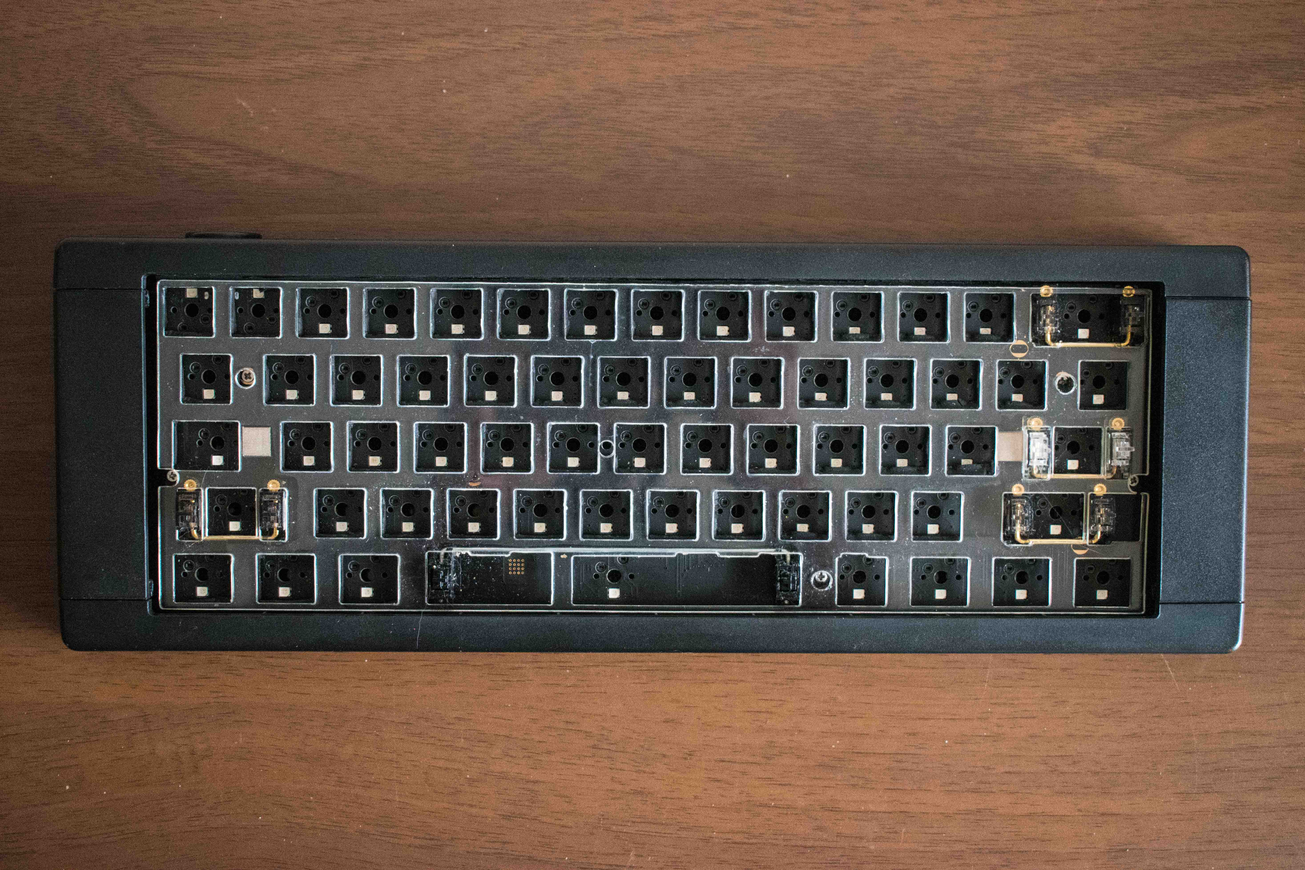
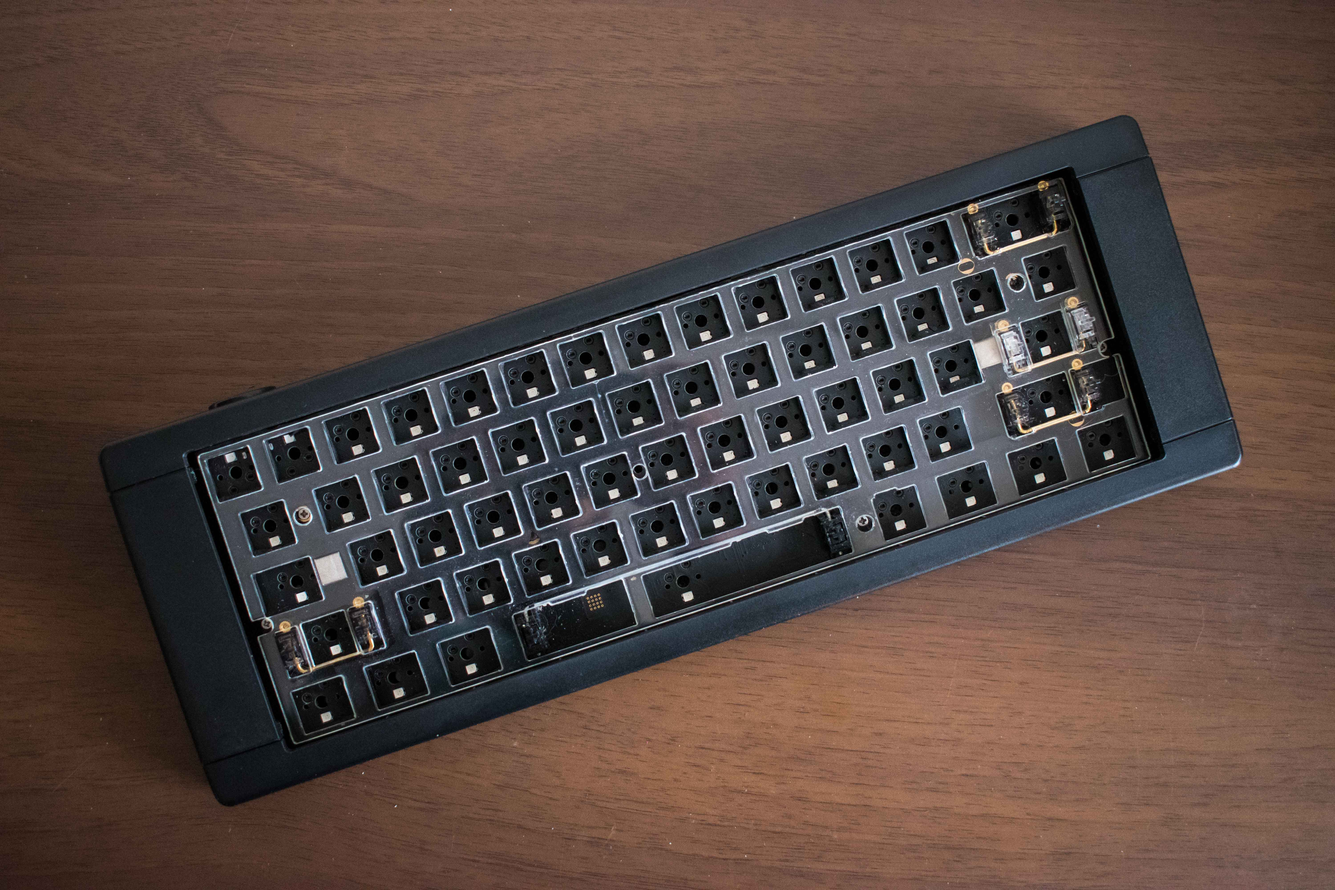
Updated sold items and better pics

diff --git a/index.html b/index.html
@@ -3,7 +3,7 @@
 "http://www.w3.org/TR/xhtml1/DTD/xhtml1-strict.dtd">
 <html xmlns="http://www.w3.org/1999/xhtml" lang="en" xml:lang="en">
 <head>
-<!-- 2022-10-11 Tue 21:16 -->
+<!-- 2022-10-12 Wed 17:05 -->
 <meta http-equiv="Content-Type" content="text/html;charset=utf-8" />
 <meta name="viewport" content="width=device-width, initial-scale=1" />
 <title>Market</title>
@@ -26,7 +26,6 @@
 <li><a href="#keycaps">Keycaps</a>
 <ul>
 <li><a href="#mt3-dev-tty">MT3 dev/tty</a></li>
-<li><a href="#mt3-3277">MT3 3277</a></li>
 </ul>
 </li>
 <li><a href="#keyboard-kits">Keyboard kits</a>
@@ -40,6 +39,7 @@
 <li><a href="#mt3-camillo"><del>MT3 Camillo</del> (sold)</a></li>
 <li><a href="#mt3-dasher"><del>MT3 Dasher</del> (sold)</a></li>
 <li><a href="#gmk-dmg-clones"><del>GMK DMG Clones</del> (sold)</a></li>
+<li><a href="#mt3-3277"><del>MT3 3277</del> (sold)</a></li>
 </ul>
 </li>
 </ul>
@@ -51,7 +51,7 @@
 <h2 id="timestamp">Timestamp</h2>
 <div class="outline-text-2" id="text-timestamp">
 
-<div id="orgc677a54" class="figure">
+<div id="org6bdbee7" class="figure">
 <p><img src="images/round01/timestamp.jpg" alt="timestamp.jpg" />
 </p>
 </div>
@@ -73,48 +73,14 @@ Shipped in plastic bag.
 </p>
 
 
-<div id="org2444e03" class="figure">
+<div id="org660733f" class="figure">
 <p><img src="images/round01/mt3_dev_tty_norbatouch.jpg" alt="mt3_dev_tty_norbatouch.jpg" />
 </p>
 </div>
 
 
-<div id="org83ec6ab" class="figure">
+<div id="orge8f69ec" class="figure">
 <p><img src="images/round01/mt3_dev_tty.jpg" alt="mt3_dev_tty.jpg" />
-</p>
-</div>
-</div>
-</div>
-
-<div id="outline-container-mt3-3277" class="outline-3">
-<h3 id="mt3-3277">MT3 3277</h3>
-<div class="outline-text-3" id="text-mt3-3277">
-<p>
-Mounted for pictures, no use, no shine.
-Shipped with OG packaging.
-</p>
-
-
-<div id="org2cd339f" class="figure">
-<p><img src="images/round01/mt3_3277.jpg" alt="mt3_3277.jpg" />
-</p>
-</div>
-
-
-<div id="org34eb75c" class="figure">
-<p><img src="images/round01/mt3_3277-4.jpg" alt="mt3_3277-4.jpg" />
-</p>
-</div>
-
-
-<div id="orga551149" class="figure">
-<p><img src="images/round01/mt3_3277-2.jpg" alt="mt3_3277-2.jpg" />
-</p>
-</div>
-
-
-<div id="org1e52fd3" class="figure">
-<p><img src="images/round01/mt3_3277-3.jpg" alt="mt3_3277-3.jpg" />
 </p>
 </div>
 </div>
@@ -135,8 +101,13 @@ Case is in excellent condition, PCB has seen some use, PC plate.
 Stabs are a weird mix of different ones(Durock, Cherry, unknown)
 </p>
 
+<p>
+Bbox60 with MT3 Susuwatari
+<img src="images/round01/bbox_mt3_susuwatari.jpg" alt="bbox_mt3_susuwatari.jpg" />
+</p>
 
-<div id="org786d13c" class="figure">
+
+<div id="org93520fa" class="figure">
 <p><img src="images/round01/bbox60.jpg" alt="bbox60.jpg" />
 </p>
 </div>
@@ -169,7 +140,7 @@ Mounted on U-80A
 
 
 
-<div id="org2e1cca2" class="figure">
+<div id="org51333cc" class="figure">
 <p><img src="images/round01/kat_space_cadet_1.jpg" alt="kat_space_cadet_1.jpg" />
 </p>
 </div>
@@ -196,19 +167,19 @@ Shipped in Drop trays.
 </p>
 
 
-<div id="org7bc61be" class="figure">
+<div id="orgd324a7a" class="figure">
 <p><img src="images/round01/mt3_camillo.jpg" alt="mt3_camillo.jpg" />
 </p>
 </div>
 
 
-<div id="org01d7480" class="figure">
+<div id="org5df02b0" class="figure">
 <p><img src="images/round01/mt3_camillo-2.jpg" alt="mt3_camillo-2.jpg" />
 </p>
 </div>
 
 
-<div id="orgcd80b2f" class="figure">
+<div id="orgd7d80f7" class="figure">
 <p><img src="images/round01/mt3_camillo-3.jpg" alt="mt3_camillo-3.jpg" />
 </p>
 </div>
@@ -225,7 +196,7 @@ Shipped in Drop trays.
 </p>
 
 
-<div id="org69602ff" class="figure">
+<div id="orgd0aab8a" class="figure">
 <p><img src="images/round01/mt3_dasher.jpg" alt="mt3_dasher.jpg" />
 </p>
 </div>
@@ -242,8 +213,42 @@ Shipped in Drop trays.
 </p>
 
 
-<div id="org5b7fa0d" class="figure">
+<div id="org0545ba0" class="figure">
 <p><img src="images/round01/gmk_dmg_clone.jpg" alt="gmk_dmg_clone.jpg" />
+</p>
+</div>
+</div>
+</div>
+
+<div id="outline-container-mt3-3277" class="outline-3">
+<h3 id="mt3-3277"><del>MT3 3277</del> (sold)</h3>
+<div class="outline-text-3" id="text-mt3-3277">
+<p>
+Mounted for pictures, no use, no shine.
+Shipped with OG packaging.
+</p>
+
+
+<div id="org5cad27c" class="figure">
+<p><img src="images/round01/mt3_3277.jpg" alt="mt3_3277.jpg" />
+</p>
+</div>
+
+
+<div id="orgc869758" class="figure">
+<p><img src="images/round01/mt3_3277-4.jpg" alt="mt3_3277-4.jpg" />
+</p>
+</div>
+
+
+<div id="orgaf85a2f" class="figure">
+<p><img src="images/round01/mt3_3277-2.jpg" alt="mt3_3277-2.jpg" />
+</p>
+</div>
+
+
+<div id="orgcaef32f" class="figure">
+<p><img src="images/round01/mt3_3277-3.jpg" alt="mt3_3277-3.jpg" />
 </p>
 </div>
 </div>
